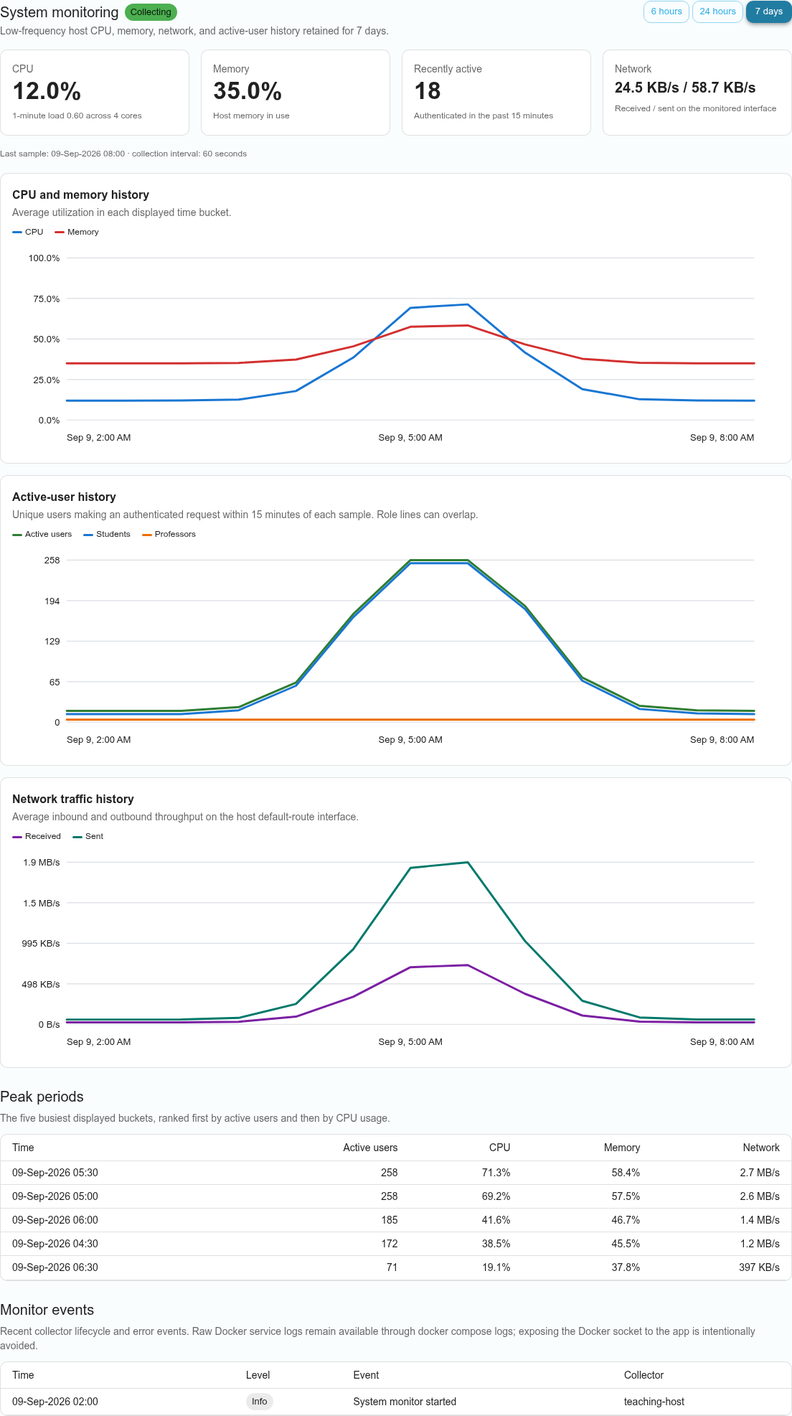
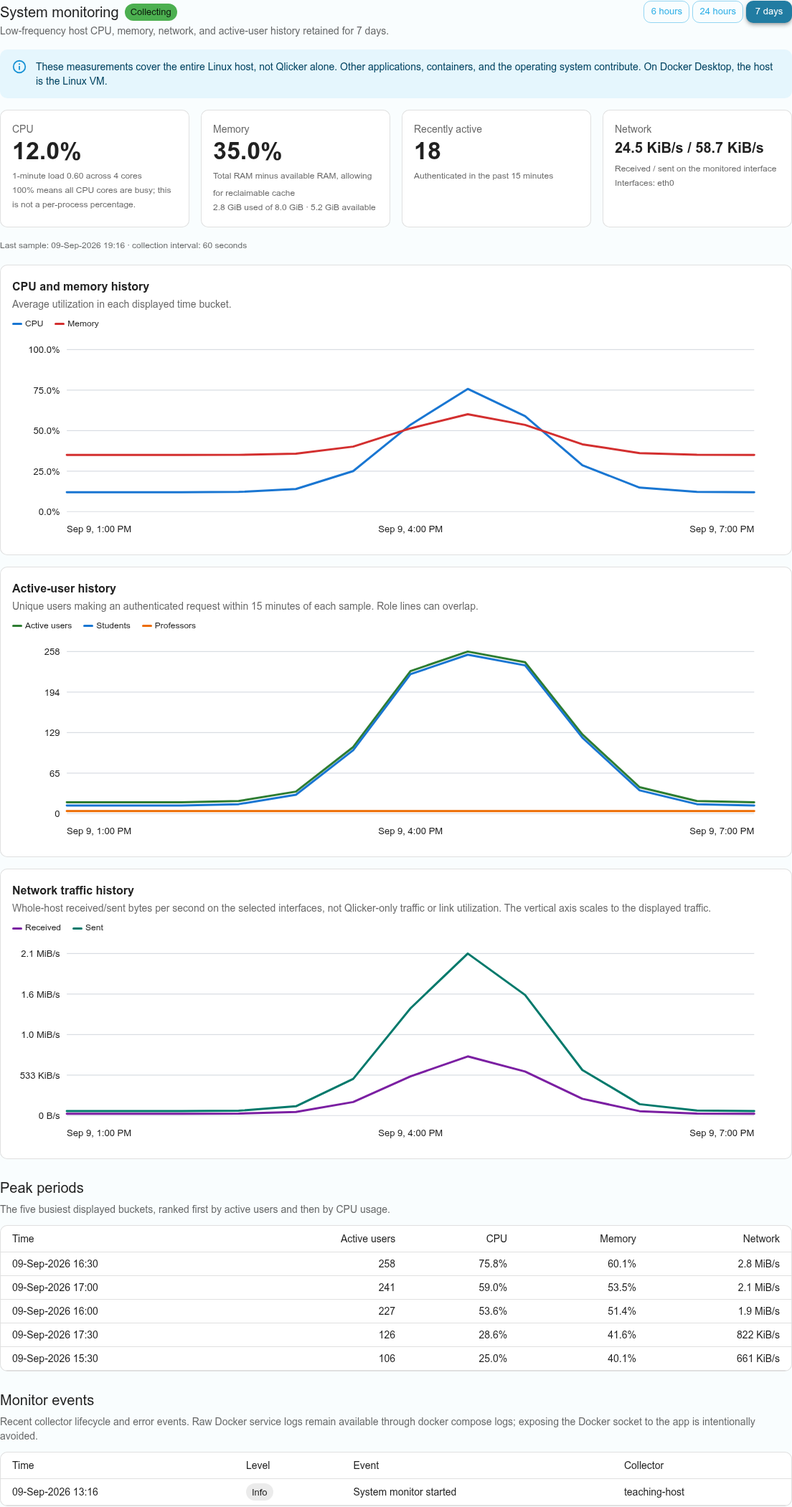
fix: avoid VPN network double counting and clarify host metrics

diff --git a/server/src/services/systemMetrics.js b/server/src/services/systemMetrics.js
@@ -1,5 +1,6 @@
 import { readFile } from 'node:fs/promises';
 import path from 'node:path';
+import { performance } from 'node:perf_hooks';
 import { getActiveUserRedisKey } from './userActivity.js';
 
 export const SYSTEM_METRIC_RANGES = Object.freeze({
@@ -10,8 +11,13 @@ export const SYSTEM_METRIC_RANGES = Object.freeze({
 
 const NETWORK_ROLE_KEYS = ['all', 'student', 'professor', 'admin'];
 const VIRTUAL_INTERFACE_PREFIXES = [
-  'lo', 'docker', 'veth', 'br-', 'virbr', 'vmnet', 'vboxnet', 'zt', 'tailscale',
+  'lo', 'docker', 'veth', 'br-', 'virbr', 'lxcbr', 'vmnet', 'vboxnet', 'zt', 'tailscale',
+  'tun', 'tap', 'wg', 'ppp',
 ];
+
+function isVirtualInterface(name) {
+  return VIRTUAL_INTERFACE_PREFIXES.some((prefix) => name.startsWith(prefix));
+}
 
 function finiteOrNull(value) {
   if (value === null || value === undefined || value === '') return null;
@@ -94,15 +100,23 @@ export function parseLoadavg(raw = '') {
 }
 
 export function parseDefaultRouteInterfaces(raw = '') {
-  const interfaces = [];
+  const routes = [];
   String(raw).split(/\r?\n/).slice(1).forEach((line) => {
     const columns = line.trim().split(/\s+/);
-    if (columns.length >= 4 && columns[1] === '00000000') {
+    if (columns.length >= 8 && columns[1] === '00000000' && columns[7] === '00000000') {
       const flags = Number.parseInt(columns[3], 16);
-      if ((flags & 0x1) === 0x1 && columns[0]) interfaces.push(columns[0]);
+      if ((flags & 0x1) === 0x1 && (flags & 0x200) === 0 && columns[0]) {
+        routes.push({ name: columns[0], metric: Number(columns[6]) || 0 });
+      }
     }
   });
-  return [...new Set(interfaces)];
+  // VPN and uplink counters often describe the same packets at different layers.
+  // Prefer the host uplinks, even if a tunnel has a lower routing metric.
+  const uplinks = routes.filter(({ name }) => !isVirtualInterface(name));
+  const selected = uplinks.length > 0
+    ? uplinks
+    : routes.sort((a, b) => a.metric - b.metric || a.name.localeCompare(b.name)).slice(0, 1);
+  return [...new Set(selected.map(({ name }) => name))].sort();
 }
 
 export function parseNetworkDev(raw = '', requestedInterfaces = []) {
@@ -116,14 +130,18 @@ export function parseNetworkDev(raw = '', requestedInterfaces = []) {
     counters.set(name, { receivedBytes: values[0], transmittedBytes: values[8] });
   });
 
-  const configured = requestedInterfaces.map((entry) => String(entry).trim()).filter(Boolean);
+  const configured = [...new Set(requestedInterfaces.map((entry) => String(entry).trim()).filter(Boolean))];
   let interfaces = configured.filter((name) => counters.has(name));
-  if (interfaces.length === 0) {
-    interfaces = [...counters.keys()].filter((name) => (
-      !VIRTUAL_INTERFACE_PREFIXES.some((prefix) => name === prefix || name.startsWith(prefix))
-    ));
+  if (configured.length === 0) {
+    interfaces = [...counters.keys()].filter((name) => !isVirtualInterface(name));
+    if (interfaces.length === 0 && counters.has('lo')) interfaces = ['lo'];
   }
-  if (interfaces.length === 0 && counters.has('lo')) interfaces = ['lo'];
+  // Never silently replace an explicitly requested, missing interface with all
+  // host traffic. Treat a partially missing selection as unavailable too.
+  if (interfaces.length === 0 || (configured.length > 0 && interfaces.length !== configured.length)) {
+    return { interfaces: [], receivedBytes: null, transmittedBytes: null };
+  }
+  interfaces.sort();
 
   return interfaces.reduce((summary, name) => {
     const counter = counters.get(name);
@@ -148,6 +166,7 @@ export async function readSystemSnapshot({ procRoot = '/proc', networkInterfaces
 
   return {
     measuredAtMs: Date.now(),
+    monotonicAtMs: performance.now(),
     cpuCounters: parseCpuStat(cpuRaw),
     memory: parseMeminfo(memoryRaw),
     load: parseLoadavg(loadRaw),
@@ -168,8 +187,11 @@ export function buildSystemMetricSample(previous, current, {
   sampleIntervalSeconds = 60,
 } = {}) {
   const timestamp = new Date(current.measuredAtMs);
+  const monotonicTiming = Number.isFinite(previous?.monotonicAtMs) && Number.isFinite(current.monotonicAtMs);
   const elapsedSeconds = previous
-    ? (current.measuredAtMs - previous.measuredAtMs) / 1000
+    ? (monotonicTiming
+      ? current.monotonicAtMs - previous.monotonicAtMs
+      : current.measuredAtMs - previous.measuredAtMs) / 1000
     : null;
   const sameInterfaces = previous?.network?.interfaces?.join(',') === current.network.interfaces.join(',');
   return {

diff --git a/server/test/services/systemMetrics.test.js b/server/test/services/systemMetrics.test.js
@@ -13,6 +13,84 @@ import {
 } from '../../src/services/systemMetrics.js';
 
 describe('system metrics collection', () => {
+  it('uses available host RAM rather than treating all cached RAM as used', () => {
+    const memory = parseMeminfo([
+      'MemTotal: 67108864 kB', 'MemFree: 8388608 kB',
+      'MemAvailable: 25165824 kB', 'Buffers: 1048576 kB', 'Cached: 20971520 kB',
+    ].join('\n'));
+    expect(memory.totalBytes).toBe(64 * 1024 ** 3);
+    expect(memory.availableBytes).toBe(24 * 1024 ** 3);
+    expect(memory.usedBytes).toBe(40 * 1024 ** 3);
+    expect(memory.usedPercent).toBe(62.5);
+  });
+
+  it('normalizes CPU across all cores and excludes idle and iowait', () => {
+    const before = parseCpuStat('cpu 100 0 0 1000 50 0 0 0 25 0');
+    // One fully busy core among 16; guest counters are already included in user.
+    const after = parseCpuStat('cpu 200 0 0 2400 150 0 0 0 125 0');
+    expect(calculateCpuUsage(before, after)).toBe(6.25);
+  });
+
+  it('does not add VPN traffic to the uplink carrying the same packets', () => {
+    const routes = [
+      'Iface Destination Gateway Flags RefCnt Use Metric Mask MTU Window IRTT',
+      'tun0 00000000 0100620A 0003 0 0 50 00000000 0 0 0',
+      'wlp4s0 00000000 0101A8C0 0003 0 0 600 00000000 0 0 0',
+      'wlp4s0 00000000 0101A8C0 0003 0 0 601 00000000 0 0 0',
+      'eth1 00000000 00000000 0001 0 0 10 00000080 0 0 0',
+      'eth2 00000000 00000000 0000 0 0 10 00000000 0 0 0',
+      'eth3 00000000 00000000 0201 0 0 10 00000000 0 0 0',
+    ].join('\n');
+    expect(parseDefaultRouteInterfaces(routes)).toEqual(['wlp4s0']);
+    const dev = [
+      'header', 'header',
+      'tun0: 900 0 0 0 0 0 0 0 1800 0 0 0 0 0 0 0',
+      'wlp4s0: 1000 0 0 0 0 0 0 0 2000 0 0 0 0 0 0 0',
+    ].join('\n');
+    expect(parseNetworkDev(dev, parseDefaultRouteInterfaces(routes))).toEqual({
+      interfaces: ['wlp4s0'], receivedBytes: 1000, transmittedBytes: 2000,
+    });
+    // Explicit tunnel selection is still supported.
+    expect(parseNetworkDev(dev, ['tun0', 'tun0']).receivedBytes).toBe(900);
+    expect(parseNetworkDev(dev, ['missing'])).toEqual({
+      interfaces: [], receivedBytes: null, transmittedBytes: null,
+    });
+    expect(parseNetworkDev(dev, ['wlp4s0', 'missing']).receivedBytes).toBeNull();
+    expect(parseNetworkDev(dev).interfaces).toEqual(['wlp4s0']);
+  });
+
+  it('selects only one tunnel if no non-tunnel default route exists', () => {
+    expect(parseDefaultRouteInterfaces([
+      'Iface Destination Gateway Flags RefCnt Use Metric Mask MTU Window IRTT',
+      'tun0 00000000 0100620A 0003 0 0 50 00000000 0 0 0',
+      'wg0 00000000 00000000 0001 0 0 20 00000000 0 0 0',
+    ].join('\n'))).toEqual(['wg0']);
+  });
+
+  it('uses monotonic elapsed time for network rates and leaves resets or interface changes as gaps', () => {
+    const previous = {
+      measuredAtMs: 100_000, monotonicAtMs: 1000,
+      network: { interfaces: ['eth0'], receivedBytes: 1000, transmittedBytes: 2000 },
+    };
+    const current = {
+      // A backwards wall-clock adjustment must not inflate or erase the rate.
+      measuredAtMs: 90_000, monotonicAtMs: 11_000,
+      network: { interfaces: ['eth0'], receivedBytes: 3000, transmittedBytes: 7000 },
+    };
+    expect(buildSystemMetricSample(previous, current).network).toMatchObject({
+      receivedBytesPerSecond: 200, transmittedBytesPerSecond: 500,
+    });
+    expect(buildSystemMetricSample(previous, {
+      ...current, network: { ...current.network, receivedBytes: 100 },
+    }).network.receivedBytesPerSecond).toBeNull();
+    expect(buildSystemMetricSample(previous, {
+      ...current, network: { ...current.network, interfaces: ['eth1'] },
+    }).network.receivedBytesPerSecond).toBeNull();
+    expect(buildSystemMetricSample(previous, {
+      ...current, network: { interfaces: [], receivedBytes: null, transmittedBytes: null },
+    }).network.receivedBytesPerSecond).toBeNull();
+  });
+
   it('does not turn missing activity into zero or bridge collection outages', () => {
     const history = aggregateSystemMetricSamples([
       { timestamp: '2026-09-08T15:00:00Z', cpu: { usagePercent: 50 }, activity: { activeUsers: null } },

diff --git a/client/src/pages/admin/AdminDashboard.jsx b/client/src/pages/admin/AdminDashboard.jsx
@@ -2728,18 +2728,22 @@ function formatPercent(value) {
   return Number.isFinite(number) ? `${number.toFixed(1)}%` : '—';
 }
 
-function formatByteRate(value) {
+function formatBytes(value, rate = false) {
   if (value == null) return '—';
   const number = Number(value);
   if (!Number.isFinite(number)) return '—';
-  const units = ['B/s', 'KB/s', 'MB/s', 'GB/s'];
+  const units = ['B', 'KiB', 'MiB', 'GiB', 'TiB'];
   let scaled = Math.max(0, number);
   let unitIndex = 0;
   while (scaled >= 1024 && unitIndex < units.length - 1) {
     scaled /= 1024;
     unitIndex += 1;
   }
-  return `${scaled.toFixed(scaled >= 100 || unitIndex === 0 ? 0 : 1)} ${units[unitIndex]}`;
+  return `${scaled.toFixed(scaled >= 100 || unitIndex === 0 ? 0 : 1)} ${units[unitIndex]}${rate ? '/s' : ''}`;
+}
+
+function formatByteRate(value) {
+  return formatBytes(value, true);
 }
 
 function buildChartPath(points, valueKey, dimensions) {
@@ -3033,6 +3037,7 @@ function UsageStatisticsTab() {
         </Box>
 
         {monitorError ? <Alert severity="error" sx={{ mb: 2 }}>{monitorError}</Alert> : null}
+        <Alert severity="info" sx={{ mb: 2 }}>{t('admin.usageStatistics.hostScopeHelp')}</Alert>
         {monitoring?.status === 'unavailable' ? (
           <Alert severity="info" sx={{ mb: 2 }}>{t('admin.usageStatistics.monitorUnavailableHelp')}</Alert>
         ) : null}
@@ -3057,11 +3062,21 @@ function UsageStatisticsTab() {
                 cores: monitoring?.latest?.cpu?.cores || '—',
               })}
             </Typography>
+            <Typography variant="caption" sx={{ display: 'block', color: 'text.secondary' }}>
+              {t('admin.usageStatistics.cpuHelp')}
+            </Typography>
           </Paper>
           <Paper variant="outlined" sx={{ p: 2 }}>
             <Typography variant="body2" sx={{ color: 'text.secondary' }}>{t('admin.usageStatistics.memory')}</Typography>
             <Typography variant="h4" component="p" sx={{ fontWeight: 700 }}>{formatPercent(monitoring?.latest?.memory?.usedPercent)}</Typography>
             <Typography variant="caption" sx={{ color: 'text.secondary' }}>{t('admin.usageStatistics.hostMemory')}</Typography>
+            <Typography variant="caption" sx={{ display: 'block', color: 'text.secondary' }}>
+              {t('admin.usageStatistics.memoryAmounts', {
+                used: formatBytes(monitoring?.latest?.memory?.usedBytes),
+                total: formatBytes(monitoring?.latest?.memory?.totalBytes),
+                available: formatBytes(monitoring?.latest?.memory?.availableBytes),
+              })}
+            </Typography>
           </Paper>
           <Paper variant="outlined" sx={{ p: 2 }}>
             <Typography variant="body2" sx={{ color: 'text.secondary' }}>{t('admin.usageStatistics.activeNow')}</Typography>
@@ -3078,6 +3093,11 @@ function UsageStatisticsTab() {
               {formatByteRate(monitoring?.latest?.network?.receivedBytesPerSecond)} / {formatByteRate(monitoring?.latest?.network?.transmittedBytesPerSecond)}
             </Typography>
             <Typography variant="caption" sx={{ color: 'text.secondary' }}>{t('admin.usageStatistics.receivedSent')}</Typography>
+            <Typography variant="caption" sx={{ display: 'block', color: 'text.secondary', overflowWrap: 'anywhere' }}>
+              {t('admin.usageStatistics.monitoredInterfaces', {
+                interfaces: monitoring?.latest?.network?.interfaces?.join(', ') || '—',
+              })}
+            </Typography>
           </Paper>
         </Box>
 

diff --git a/client/src/pages/admin/AdminDashboard.test.jsx b/client/src/pages/admin/AdminDashboard.test.jsx
@@ -214,8 +214,8 @@ describe('AdminDashboard', () => {
       latest: {
         timestamp: '2026-09-08T16:00:00.000Z', sampleIntervalSeconds: 60,
         cpu: { usagePercent: 42, cores: 4, load1: 1.2 },
-        memory: { usedPercent: 65 },
-        network: { receivedBytesPerSecond: 1024, transmittedBytesPerSecond: 2048 },
+        memory: { usedPercent: 65, usedBytes: 5.2 * 1024 ** 3, totalBytes: 8 * 1024 ** 3, availableBytes: 2.8 * 1024 ** 3 },
+        network: { interfaces: ['wlp4s0'], receivedBytesPerSecond: 1024, transmittedBytesPerSecond: 2048 },
         activity: { activeUsers: 25, windowMinutes: 15 },
       },
       history: [0, 1].map((index) => ({
@@ -428,6 +428,10 @@ describe('AdminDashboard', () => {
     expect(screen.getByRole('img', { name: /^Active-user history/ })).toBeInTheDocument();
     expect(screen.getByRole('img', { name: /^Network traffic history/ })).toBeInTheDocument();
     expect(screen.getByText('42.0%')).toBeInTheDocument();
+    expect(screen.getByText(/not Qlicker alone/i)).toBeInTheDocument();
+    expect(screen.getByText(/5.2 GiB.*8.0 GiB.*2.8 GiB/)).toBeInTheDocument();
+    expect(screen.getByText('1.0 KiB/s / 2.0 KiB/s')).toBeInTheDocument();
+    expect(screen.getByText('Interfaces: wlp4s0')).toBeInTheDocument();
     expect(screen.getByText('System monitor started')).toBeInTheDocument();
     fireEvent.click(screen.getByRole('button', { name: '7 days', exact: true }));
     await waitFor(() => expect(apiClientMock.get).toHaveBeenCalledWith(
@@ -443,6 +447,21 @@ describe('AdminDashboard', () => {
     expect(screen.getByText(/No system samples are available/)).toBeInTheDocument();
     expect(screen.queryByText('0.0%')).not.toBeInTheDocument();
     expect(screen.queryByRole('img', { name: 'CPU and memory history' })).not.toBeInTheDocument();
+  });
+
+  it.each(['en', 'de', 'es', 'fr', 'it', 'pir', 'ru', 'zh'])('renders Usage Statistics without raw translation keys in %s', async (locale) => {
+    await i18n.changeLanguage(locale);
+    const { unmount } = renderDashboard();
+    try {
+      fireEvent.click(await screen.findByRole('tab', { name: i18n.t('admin.tabs.usageStatistics'), exact: true }));
+      expect(await screen.findByText('42.0%')).toBeInTheDocument();
+      const section = screen.getByRole('region', { name: i18n.t('admin.usageStatistics.systemMonitoring'), exact: true });
+      expect(section.innerHTML).not.toMatch(/admin\.usageStatistics\./);
+      expect(section.textContent).not.toContain('{{');
+    } finally {
+      unmount();
+      await i18n.changeLanguage('en');
+    }
   });
 
   it('requests a manual backup and shows 12-hour backup controls when the app uses 12-hour time', async () => {

diff --git a/client/src/i18n/locales.test.js b/client/src/i18n/locales.test.js
@@ -7,6 +7,7 @@ import itLocale from './locales/it.json';
 import pirLocale from './locales/pir.json';
 import ruLocale from './locales/ru.json';
 import zhLocale from './locales/zh.json';
+import adminDashboardSource from '../pages/admin/AdminDashboard.jsx?raw';
 
 const LOCALES = {
   de: deLocale,
@@ -34,6 +35,26 @@ function flattenKeys(value, prefix = '') {
 }
 
 describe('locale files', () => {
+  it('translates every Usage Statistics label, including dynamic statuses, without missing interpolation values', () => {
+    const keys = [...new Set([
+      ...[...adminDashboardSource.matchAll(/t\(['"](admin\.usageStatistics\.[^'"]+)['"]/g)].map((match) => match[1]),
+      ...['healthy', 'stale', 'unavailable'].map((status) => `admin.usageStatistics.monitorStatus.${status}`),
+      ...['info', 'warning', 'error'].map((level) => `admin.usageStatistics.eventLevel.${level}`),
+    ])];
+    const variables = (text) => [...text.matchAll(/\{\{(\w+)\}\}/g)].map((match) => match[1]).sort();
+    for (const key of keys) {
+      const english = getNestedValue(enLocale, key);
+      expect(english, key).toBeTypeOf('string');
+      for (const [locale, messages] of Object.entries(LOCALES)) {
+        const translated = getNestedValue(messages, key);
+        expect(translated, `${locale}: ${key}`).toBeTypeOf('string');
+        expect(translated.trim(), `${locale}: ${key}`).not.toBe('');
+        expect(translated, `${locale}: ${key}`).not.toBe(key);
+        expect(variables(translated), `${locale}: ${key}`).toEqual(variables(english));
+      }
+    }
+  });
+
   it('keeps translation structures aligned across all supported locales', () => {
     const sections = [
       'questionLibrary',

diff --git a/client/e2e/admin-system-monitoring.spec.js b/client/e2e/admin-system-monitoring.spec.js
@@ -23,7 +23,9 @@ test('admin can correlate host load and user activity on desktop and mobile', as
         timestamp: new Date(now - (359 - index) * 60_000),
         expiresAt: new Date(now + 7 * 86_400_000), collectorId: 'teaching-host', sampleIntervalSeconds: 60,
         cpu: { usagePercent: 12 + peak * 66, cores: 4, load1: 0.6 + peak * 2.4 },
-        memory: { usedPercent: 35 + peak * 26 },
+        memory: { usedPercent: 35 + peak * 26, totalBytes: 8 * 1024 ** 3,
+          usedBytes: ((35 + peak * 26) / 100) * 8 * 1024 ** 3,
+          availableBytes: ((65 - peak * 26) / 100) * 8 * 1024 ** 3 },
         network: { interfaces: ['eth0'], receivedBytesPerSecond: 25_000 + peak * 800_000,
           transmittedBytesPerSecond: 60_000 + peak * 2_200_000 },
         activity: { activeUsers: users, activeStudents: users - 5, activeProfessors: 4,
@@ -43,6 +45,8 @@ test('admin can correlate host load and user activity on desktop and mobile', as
   await loginViaUi(page, admin.email, admin.password, /\/admin$/);
   await page.getByRole('tab', { name: 'Usage Statistics' }).click();
   await expect(page.getByText('Collecting', { exact: true })).toBeVisible();
+  await expect(page.getByText(/not Qlicker alone/)).toBeVisible();
+  await expect(page.getByText('Interfaces: eth0', { exact: true })).toBeVisible();
   await expect(page.getByRole('img', { name: /^CPU and memory history/ })).toBeVisible();
   await expect(page.getByRole('table', { name: 'Peak periods' }).getByRole('row')).toHaveCount(6);
   await expect(page.getByText('System monitor started')).toBeVisible();

diff --git a/docs/user-manual/admin.md b/docs/user-manual/admin.md
@@ -223,13 +223,17 @@ Open **Admin → Usage Statistics**. The first cards count unique accounts by th
 | Measurement | Interpretation |
 | --- | --- |
 | CPU | Percentage busy across all host CPU cores, averaged between samples. The load value is Linux's one-minute load average, not a percentage. |
-| Memory | Host RAM in use: total minus available memory. Reclaimable cache is included in available memory. |
-| Network | Average received/sent bytes per second on the host's default-route interface(s), or interfaces selected by the operator. Includes traffic from other applications on that host. |
+| Memory | `(MemTotal − MemAvailable) / MemTotal × 100`, for the whole host. The card also shows used, total, and available RAM. Linux estimates available RAM allowing for reclaimable cache; this is not simply total minus free RAM or Qlicker's process memory. |
+| Network | Average received/sent bytes per second on the displayed interfaces, including other applications' traffic. Automatic selection prefers non-tunnel default-route interfaces, avoiding VPN/uplink double counting. KiB/s means 1,024 bytes per second; MiB/s means 1,048,576 bytes per second. The chart scales to observed traffic, not link capacity. |
 | Recently active | Unique authenticated users making an API request during the preceding 15 minutes by default. Multiple tabs/replicas deduplicate by user. Idle signed-in users and browsers only receiving WebSocket updates can age out; logout does not immediately remove recent activity. |
 | Role lines | Students and professors with recent requests. Users with multiple roles can appear in multiple lines; total users remain deduplicated. |
 | History | Seven days, starting when the collector is installed. Default sampling is once per minute. Display buckets are 1 minute, 5 minutes, or 30 minutes for the three ranges. Resource values are averages; active-user values are the maximum sample count in each bucket. Very brief spikes can be missed. |
 
-Host metrics cover the machine running Docker, including MongoDB, Redis, Qlicker, and other workloads. On Docker Desktop this is the Linux VM. They are not per-container measurements. Missing measurements are shown as gaps or dashes; unavailable Redis activity is not reported as zero users.
+Host metrics cover the native Linux machine or the machine running Docker, including MongoDB, Redis, Qlicker, and other workloads. On Docker Desktop this is the Linux VM. They are not per-process or per-container measurements. A desktop using 40 GiB out of 64 GiB can legitimately show 62.5% even when Qlicker is quiet. CPU is normalized over all cores: one fully busy core on a 16-core machine contributes about 6.25%. See the [Linux counter definitions](https://docs.kernel.org/filesystems/proc.html) for the underlying measurements.
+
+To investigate a high reading, compare the sample timestamp with host tools such as `free`, `top`, and your network monitor. Compare **available** RAM, not just the `used` column of `free`, whose definition varies by version. CPU/network cards average the sampling interval (normally 60 seconds), so a one-second desktop monitor can show different values. Check the displayed network interfaces: selecting both a VPN and its underlying Wi-Fi/Ethernet interface explicitly can still count the same packets twice. Ask the operator to select only the intended interface if automatic selection does not match the host's routing.
+
+Missing measurements are shown as gaps or dashes; unavailable Redis activity is not reported as zero users. After a collector fix or interface change, older history is not rewritten and expires after seven days; use the latest sample to check the change.
 
 **Monitor events** provides the latest 50 collector events from the past seven days, with collection error details. Full API, database, proxy, and operating-system logs are not imported into this page; operators can use the [deployment log commands](../../production_setup/README.md#monitoring--logs). The collector has no Docker-control access.
 

diff --git a/production_setup/README.md b/production_setup/README.md
@@ -859,11 +859,15 @@ Compose caps the collector at **0.10 CPU**, **128 MiB RAM** with no extra swap, 
 | --- | --- | --- |
 | `SYSTEM_MONITOR_SAMPLE_INTERVAL_SECONDS` | `60` | Collection interval, clamped to 30–300 seconds. Short bursts between samples may be missed. |
 | `SYSTEM_MONITOR_ACTIVE_WINDOW_MINUTES` | `15` | Recent authenticated-request window, clamped to 5–120 minutes. This is not an exact signed-in-session count. |
-| `SYSTEM_MONITOR_NETWORK_INTERFACES` | empty | Comma-separated host interfaces. Empty selects default-route interfaces, falling back to non-virtual interfaces. Choose explicit names for unusual routing. |
+| `SYSTEM_MONITOR_NETWORK_INTERFACES` | empty | Comma-separated host interfaces. Empty prefers non-tunnel default-route interfaces; if only tunnel defaults exist, selects the lowest-metric one. Without default routes, falls back to non-virtual interfaces (or loopback on a loopback-only host). Choose explicit names for unusual routing. |
 
 Apply configuration changes with `docker compose up -d system-monitor`. History persists through restarts in MongoDB. A Redis failure omits activity counts while host metrics continue; the collector reconnects automatically. Collection failure/recovery events appear in the app when MongoDB is reachable. If MongoDB itself is unavailable, errors can only be written to container logs. An absent collector produces a missing/stale indication; it does not prevent teaching or quiz submission. Stop collection with `docker compose stop system-monitor`.
 
-On hosts with VPNs, bonded links, or multiple default routes, select the intended physical interface(s) explicitly with `SYSTEM_MONITOR_NETWORK_INTERFACES`. Summing a tunnel and its underlying interface can count the same traffic twice. The latest sample's `network.interfaces` field in the admin API identifies the measured interfaces.
+On hosts with VPNs, automatic selection avoids adding tunnel counters to the uplink carrying those packets. For custom-named tunnels, bonded links, or unusual routing, select the intended non-overlapping interface(s) explicitly with `SYSTEM_MONITOR_NETWORK_INTERFACES`. Explicit selections are deduplicated; if any requested interface is missing, network values are unavailable rather than silently switching to other traffic. Selecting both a tunnel and its underlying interface explicitly can still double-count traffic. The admin card displays the latest sample's `network.interfaces`, and rates use binary byte units (KiB/s, MiB/s), not bits or link-utilization percentages. Rates use monotonic elapsed time so wall-clock adjustments do not inflate them.
+
+Memory is whole-host `MemTotal - MemAvailable`, not Qlicker-only memory or simply `MemTotal - MemFree`; the UI shows the absolute amounts as well as the percentage. CPU is normalized across all host cores and excludes idle/I/O-wait time. Native desktop applications and unrelated containers also contribute to host usage. Sampling remains once per minute by default with no new process scanning or polling.
+
+After updating collector code or interface configuration, restart the collector (`docker compose up -d --force-recreate system-monitor` for Docker, or `./scripts/qlicker.sh restart` for the native stack). Check the next sample's timestamp and interface names. Historical samples are retained unchanged until their seven-day expiry; old network samples collected by summing a VPN and uplink cannot be corrected from aggregate counters alone.
 
 For native Linux development, `./scripts/qlicker.sh start` automatically starts the same collector, reads the root `.env`, and manages it with `status`, `stop`, and `restart`. Shutdown stops the collector before Redis/MongoDB so it can persist its final event. The helper prevents duplicate collector starts, recognizes its own orphaned collector if the main PID file is lost, and skips stale PIDs that belong to unrelated processes. Collector failure does not prevent the app from running.
 

diff --git a/docs/api-reference.md b/docs/api-reference.md
@@ -48,6 +48,8 @@ Permission checks vary by operation. A global professor role and course instruct
 
 Missing measurements are `null`. Resource history fields are bucket averages; activity fields are bucket maxima. The endpoint caches each range for 30 seconds per API process, coalesces concurrent reads, and caps database queries at 20,161 samples and two seconds. This is a single-host collector contract; see [metric definitions](user-manual/admin.md#understand-the-measurements). There is no metric-ingestion or arbitrary-log-reading HTTP endpoint: the collector writes directly to MongoDB.
 
+`latest.memory` includes `usedBytes`, `totalBytes`, `availableBytes`, and `usedPercent` for the whole host. `latest.network.interfaces` identifies the selected measurement interfaces; rate fields are bytes per second, not bits. Automatic selection prefers non-tunnel default routes to avoid counting a VPN and its uplink together. A missing explicitly selected interface reports unavailable network counters/rates rather than substituting other interfaces. The sample timestamp uses wall-clock time, while new collector snapshots use monotonic elapsed time to calculate rates.
+
 ## WebSocket connection
 
 The browser connects to:
